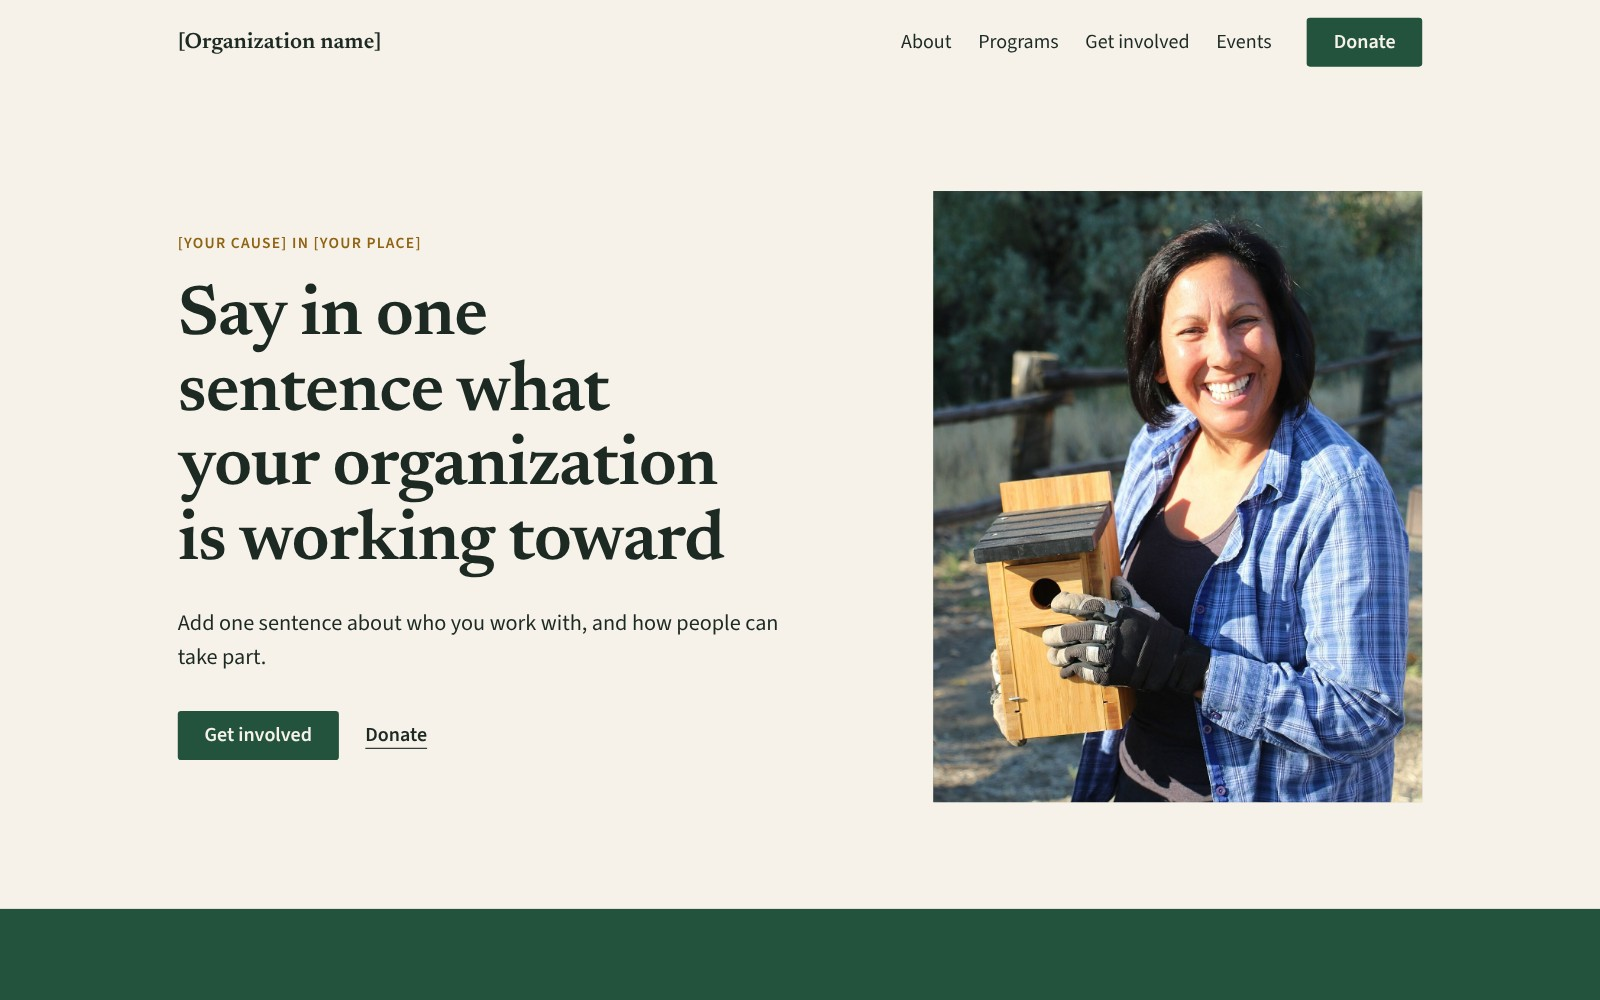
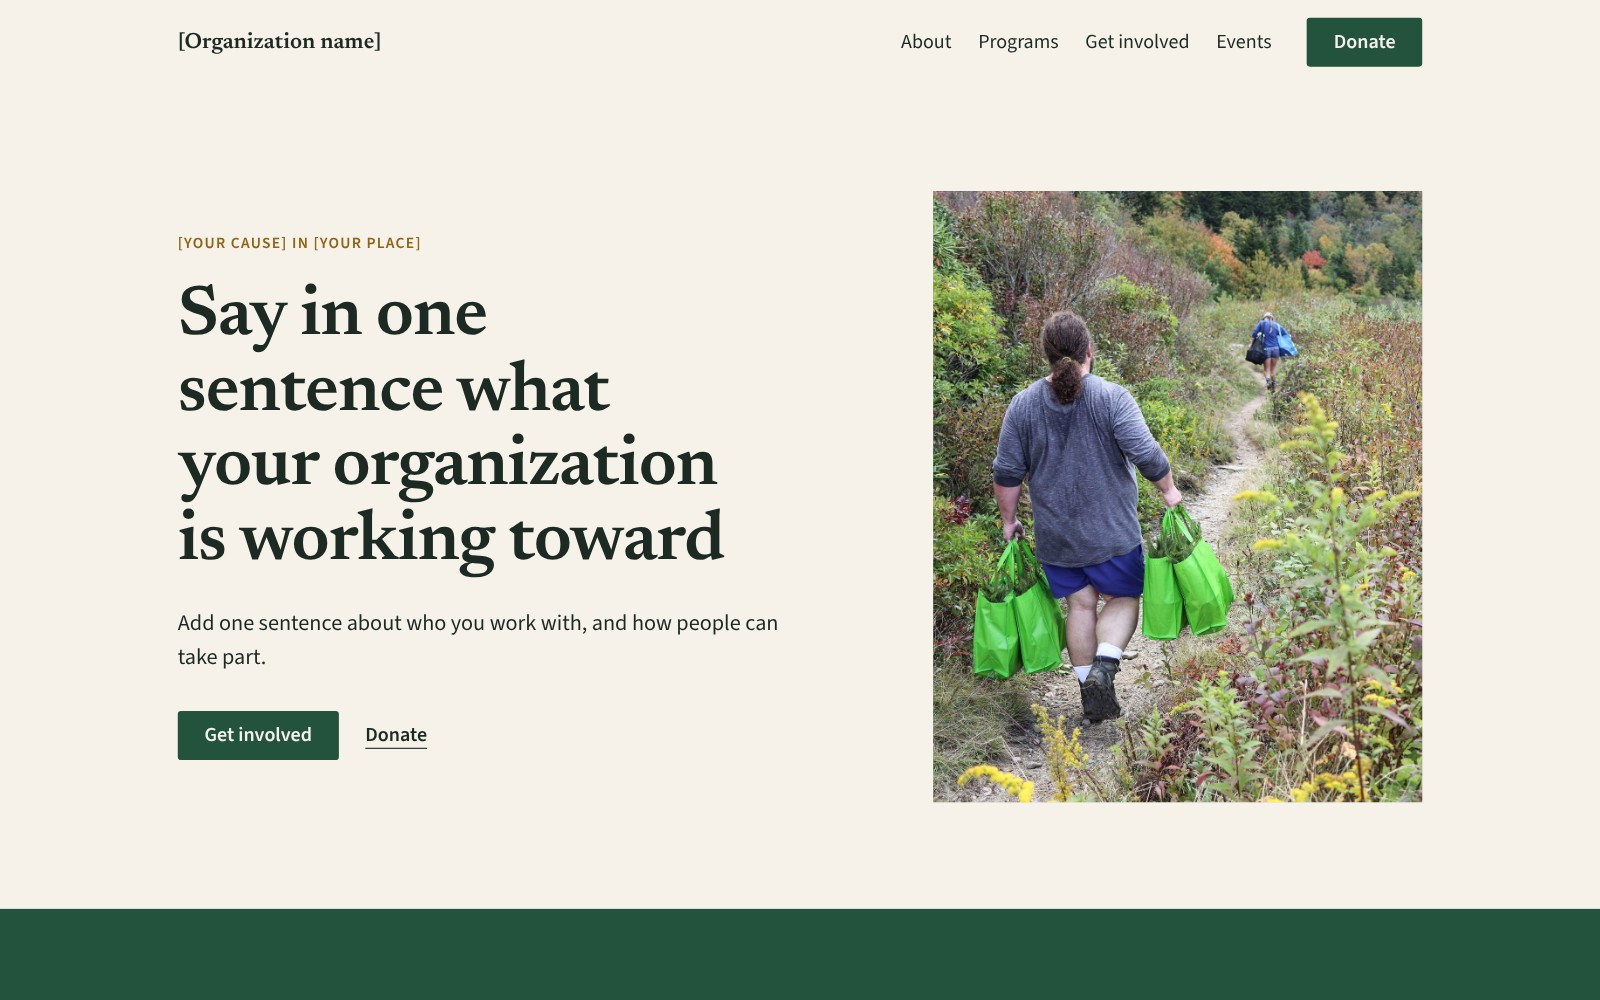
fix(site-templates): Field Journal sample photos without faces as the subject
The owner's ruling of 2026-11-01: no sample photo's subject is a
recognisable face. The hero is now a volunteer seen from behind carrying
seedlings up a trail (USFWS, public domain), with the shop prints on the
tote bags painted out; program-two is a volunteer's hands bagging gleaned
potatoes (USDA, public domain), midtones lifted. The hero's alt text no
longer asks for a face, and the chooser thumbnail is regenerated.

Changed region(s): [[0.5625, 0.186, 0.9062, 0.806]]

diff --git a/packages/sdk-components-organizeos/src/site-templates/nonprofit/field-journal/index.tsx b/packages/sdk-components-organizeos/src/site-templates/nonprofit/field-journal/index.tsx
@@ -24,9 +24,12 @@ import { programs } from "./pages/programs";
 // platform's /donate, linked, never a page of the template.
 //
 // The photos are public domain works of United States federal agencies,
-// from Wikimedia Commons, resized and compressed. Painted out: in the hero, a
-// maker's mark on the birdhouse and a glove's brand patch; in about.jpg, a
-// billboard and a filling station's lettering and sign on the skyline.
+// from Wikimedia Commons, resized and compressed. No photo's subject is a
+// face (the owner's ruling of 2026-11-01): the hero is a volunteer seen from
+// behind, program-two a pair of hands. Painted out: in the hero, the shop
+// prints on the two front tote bags, refilled from the bag's own green and
+// grain; in about.jpg, a billboard and a filling station's lettering and sign
+// on the skyline. program-two's midtones are lifted (gamma 0.85).
 //
 // thumbnail.jpg, the chooser's picture, is OrganizeOS's own: the top of Home as
 // the preview tool draws it, which `corepack pnpm preview:template
@@ -56,9 +59,11 @@ export const fieldJournalTemplate: SiteTemplate = {
   images: {
     "hero.jpg": {
       url: heroUrl,
+      // USFWS Southeast, 2017, {{PD-USGov-FWS}}: volunteers carrying red
+      // spruce seedlings to planting sites on Pisgah National Forest
       sourceUrl:
-        "https://commons.wikimedia.org/wiki/File:National_Public_Lands_Day_2015_(21712958636).jpg",
-      alt: "Replace with a photo of one of your people at work, looking at the camera",
+        "https://commons.wikimedia.org/wiki/File:Volunteers_carry_trees_to_planting_sites_(37287300136).jpg",
+      alt: "Replace with a photo of your people at work",
     },
     "program-one.jpg": {
       url: programOneUrl,
@@ -68,8 +73,10 @@ export const fieldJournalTemplate: SiteTemplate = {
     },
     "program-two.jpg": {
       url: programTwoUrl,
+      // USDA, 2015, {{PD-USGov-USDA}}: a volunteer bagging gleaned potatoes
+      // at a food distribution warehouse
       sourceUrl:
-        "https://commons.wikimedia.org/wiki/File:Cherry_Point_Commissary_donates_more_than_30,000_lbs._to_food_bank_140702-M-SR938-047.jpg",
+        "https://commons.wikimedia.org/wiki/File:2015_Feds_Feeds_Families-Gleaning_at_MAGNET_(Food)_Warehouse_(20150911-DM-LSC-3017).jpg",
       alt: "Replace with a photo of your second program in action",
     },
     "program-three.jpg": {
